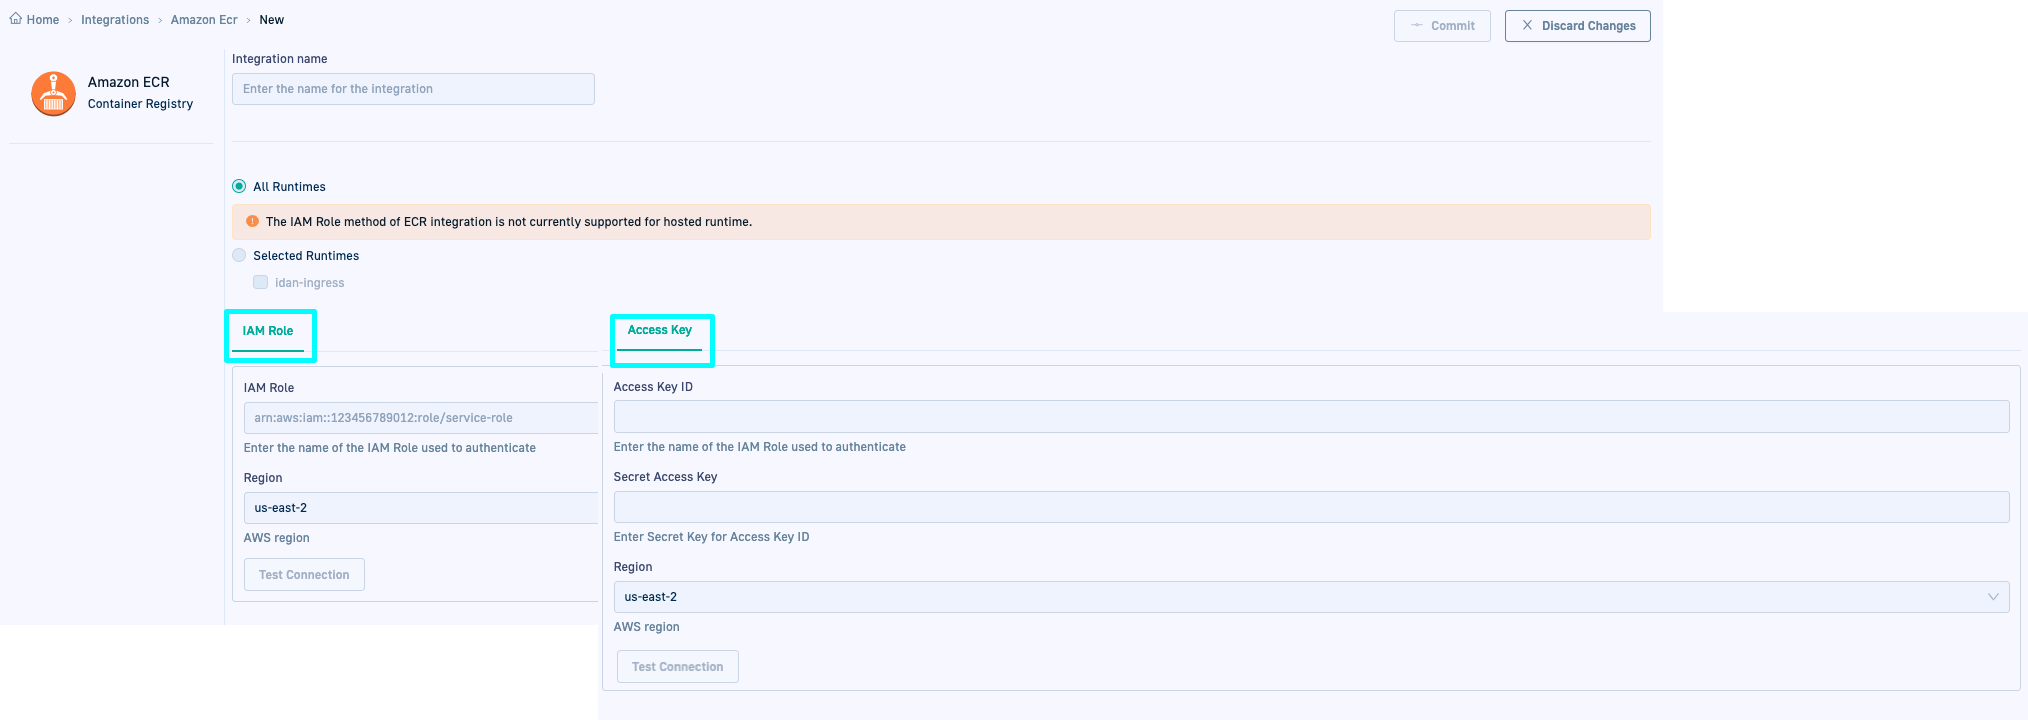
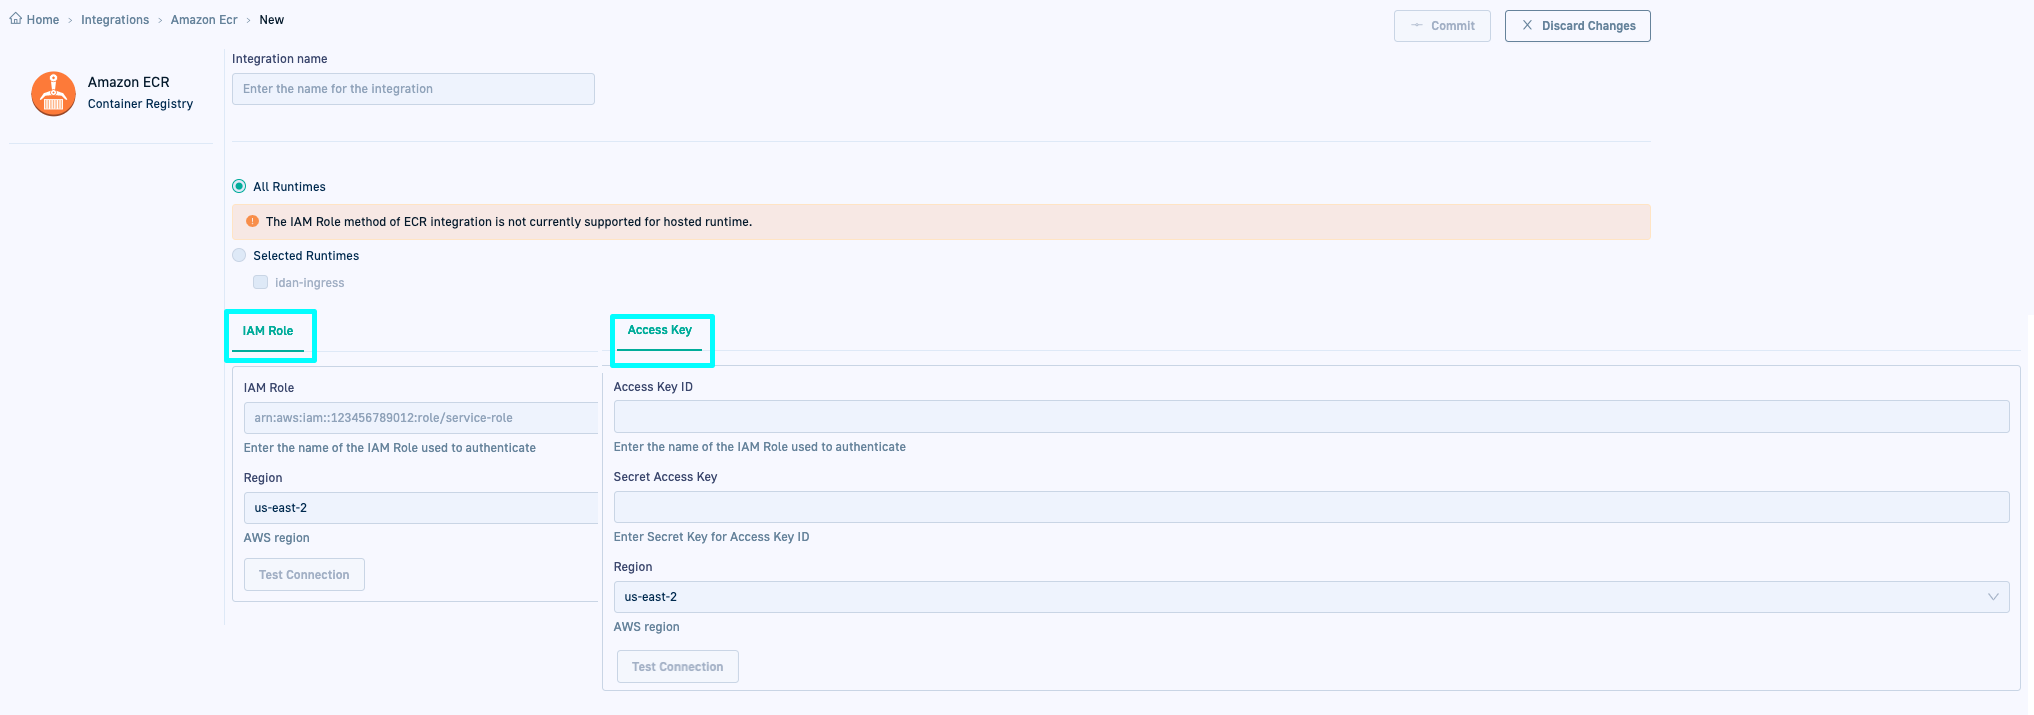
Update screenshot with IAM and access key
Minor content edits; replaced screenshot with new one showing both modes

diff --git a/_docs/gitops-integrations/container-registries/amazon-ecr.md b/_docs/gitops-integrations/container-registries/amazon-ecr.md
@@ -7,7 +7,7 @@ toc: true
 ---
 
 Codefresh has native support to interact with Amazon ECR (Elastic Container Registry), and push, pull, and deploy images.  
-For information on adding an Amazon ECR integration for GitOps in Codefresh, see [Container registry GitOps integrations]({{site.baseurl}}/docs/gitops-integrations/container-registries/).
+For general information on adding an Amazon ECR integration for GitOps in Codefresh, see [Container registry GitOps integrations]({{site.baseurl}}/docs/gitops-integrations/container-registries/).
 
 
 ## GitOps Amazon ECR integration options
@@ -16,13 +16,14 @@ You can set up the integration with Amazon ECR in one of two modes:
 * IAM (Identity and Access Management) role (dynamic integration)  
   [IAM](https://docs.aws.amazon.com/IAM/latest/UserGuide/id_roles.html){:target="\_blank"} roles provide temporary security credentials for applications and services to access AWS resources securely, that expire after a period of time.  
 * Access key and secret (static integration)  
-  Access keys consist of an access key ID and a secret access key, which are used to authenticate and authorize API requests to AWS services for a specific user.
-  Unlike IAM roles, access keys are long-term credentials, and don't have a default expiration date.
+  Access keys consist of an access key ID and a secret access key, used to authenticate and authorize API requests to AWS services for a specific user.
+  Unlike IAM roles, access keys are long-term credentials, without a default expiration date.
 
->Amazon ECR integration with IAM Role is supported only for Hybrid GitOps. Access Key integration is supported for both Hosted and Hybrid GitOps.
+>Amazon ECR integration with IAM Role is supported only for Hybrid GitOps.  
+  Access Key integration is supported for both Hosted and Hybrid GitOps.
 
 
-Both modes use AWS Identity and Access Management (IAM) to create the integration with Amazon ECR.  
+Both IAM and access key modes use AWS Identity and Access Management (IAM) to create the integration with Amazon ECR.  
 For detailed information, see [How Amazon Elastic Container Registry Works with IAM](https://docs.aws.amazon.com/AmazonECR/latest/userguide/security_iam_service-with-iam.html){:target="\_blank"} and the [AWS security blog](https://aws.amazon.com/blogs/security/how-to-use-trust-policies-with-iam-roles/){:target="\_blank"}.
 
 ## Prerequisites
@@ -83,8 +84,8 @@ The table describes the arguments required for GitOps integrations with Amazon E
     {% include 
    image.html 
    lightbox="true" 
-   file="/images/integrations/aws/aws-int-settings.png" 
-   url="/images/integrations/aws/aws-int-settings.png" 
+   file="/images/integrations/aws/ecr-role-access-key-int-settings.png" 
+   url="/images/integrations/aws/ecr-role-access-key-int-settings.png" 
    alt="Amazon ECR for image enrichment" 
    caption="Amazon ECR for image enrichment"
    max-width="50%" 
